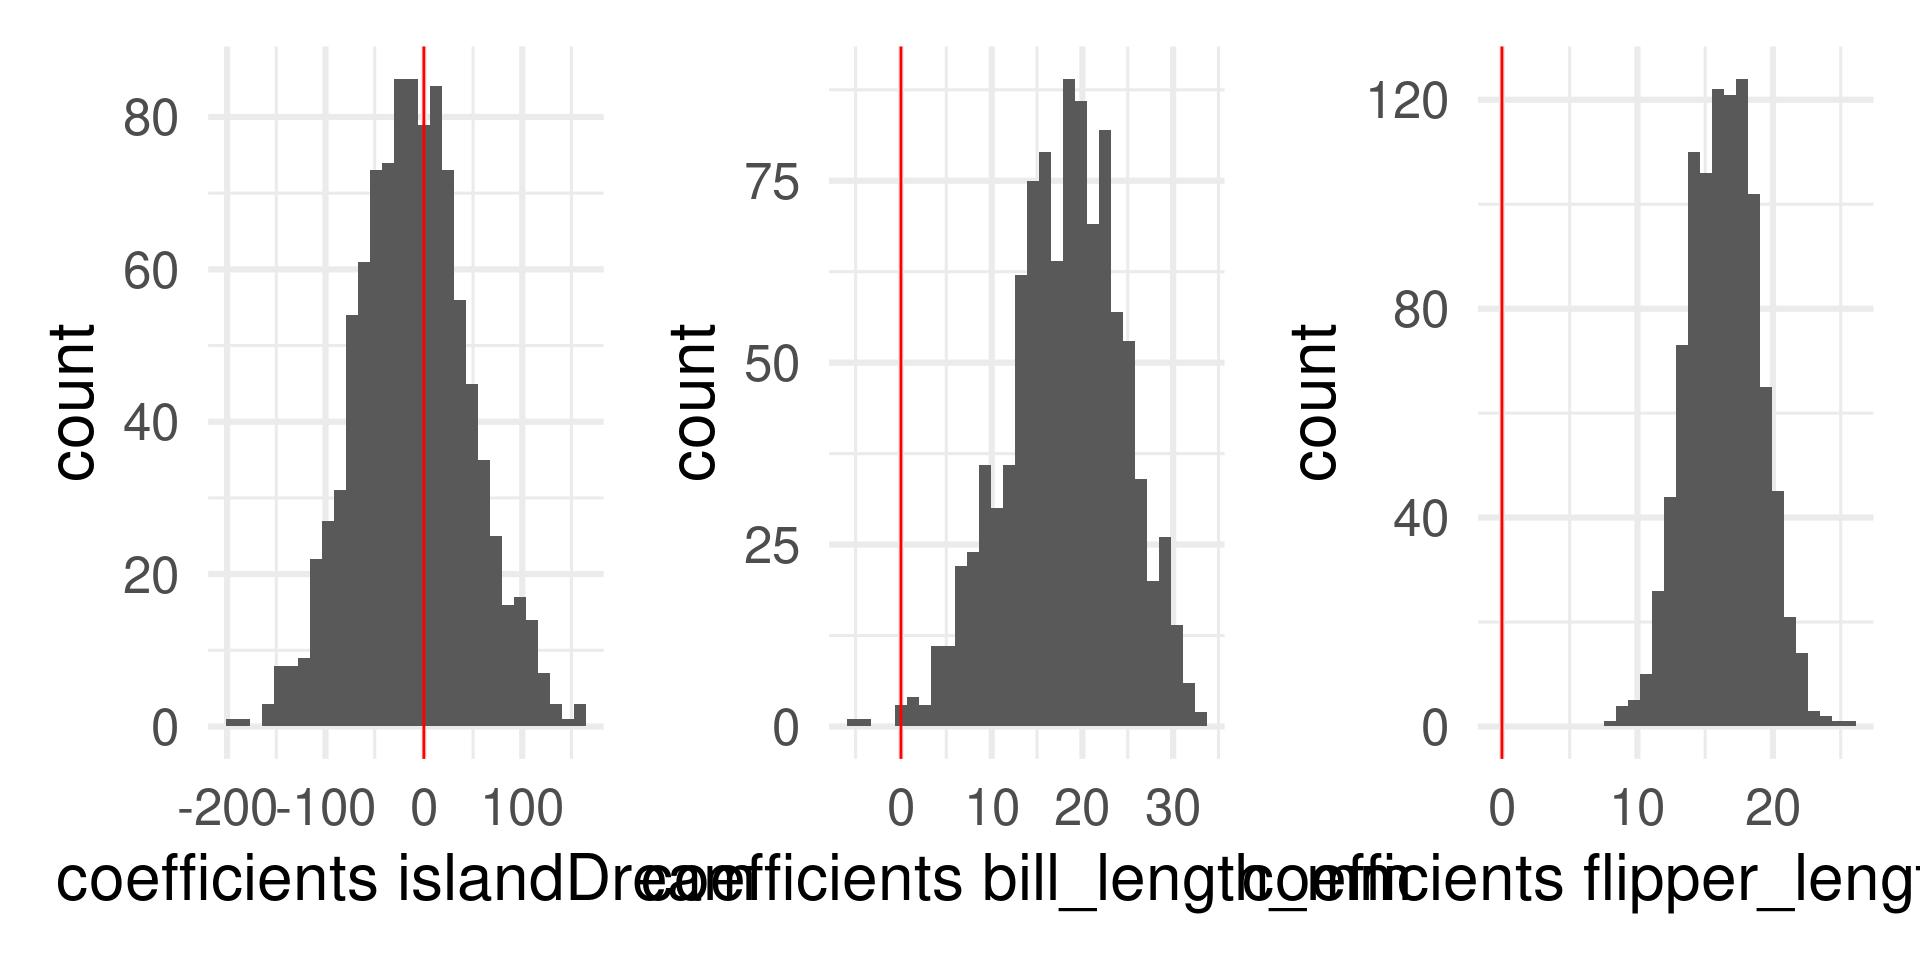
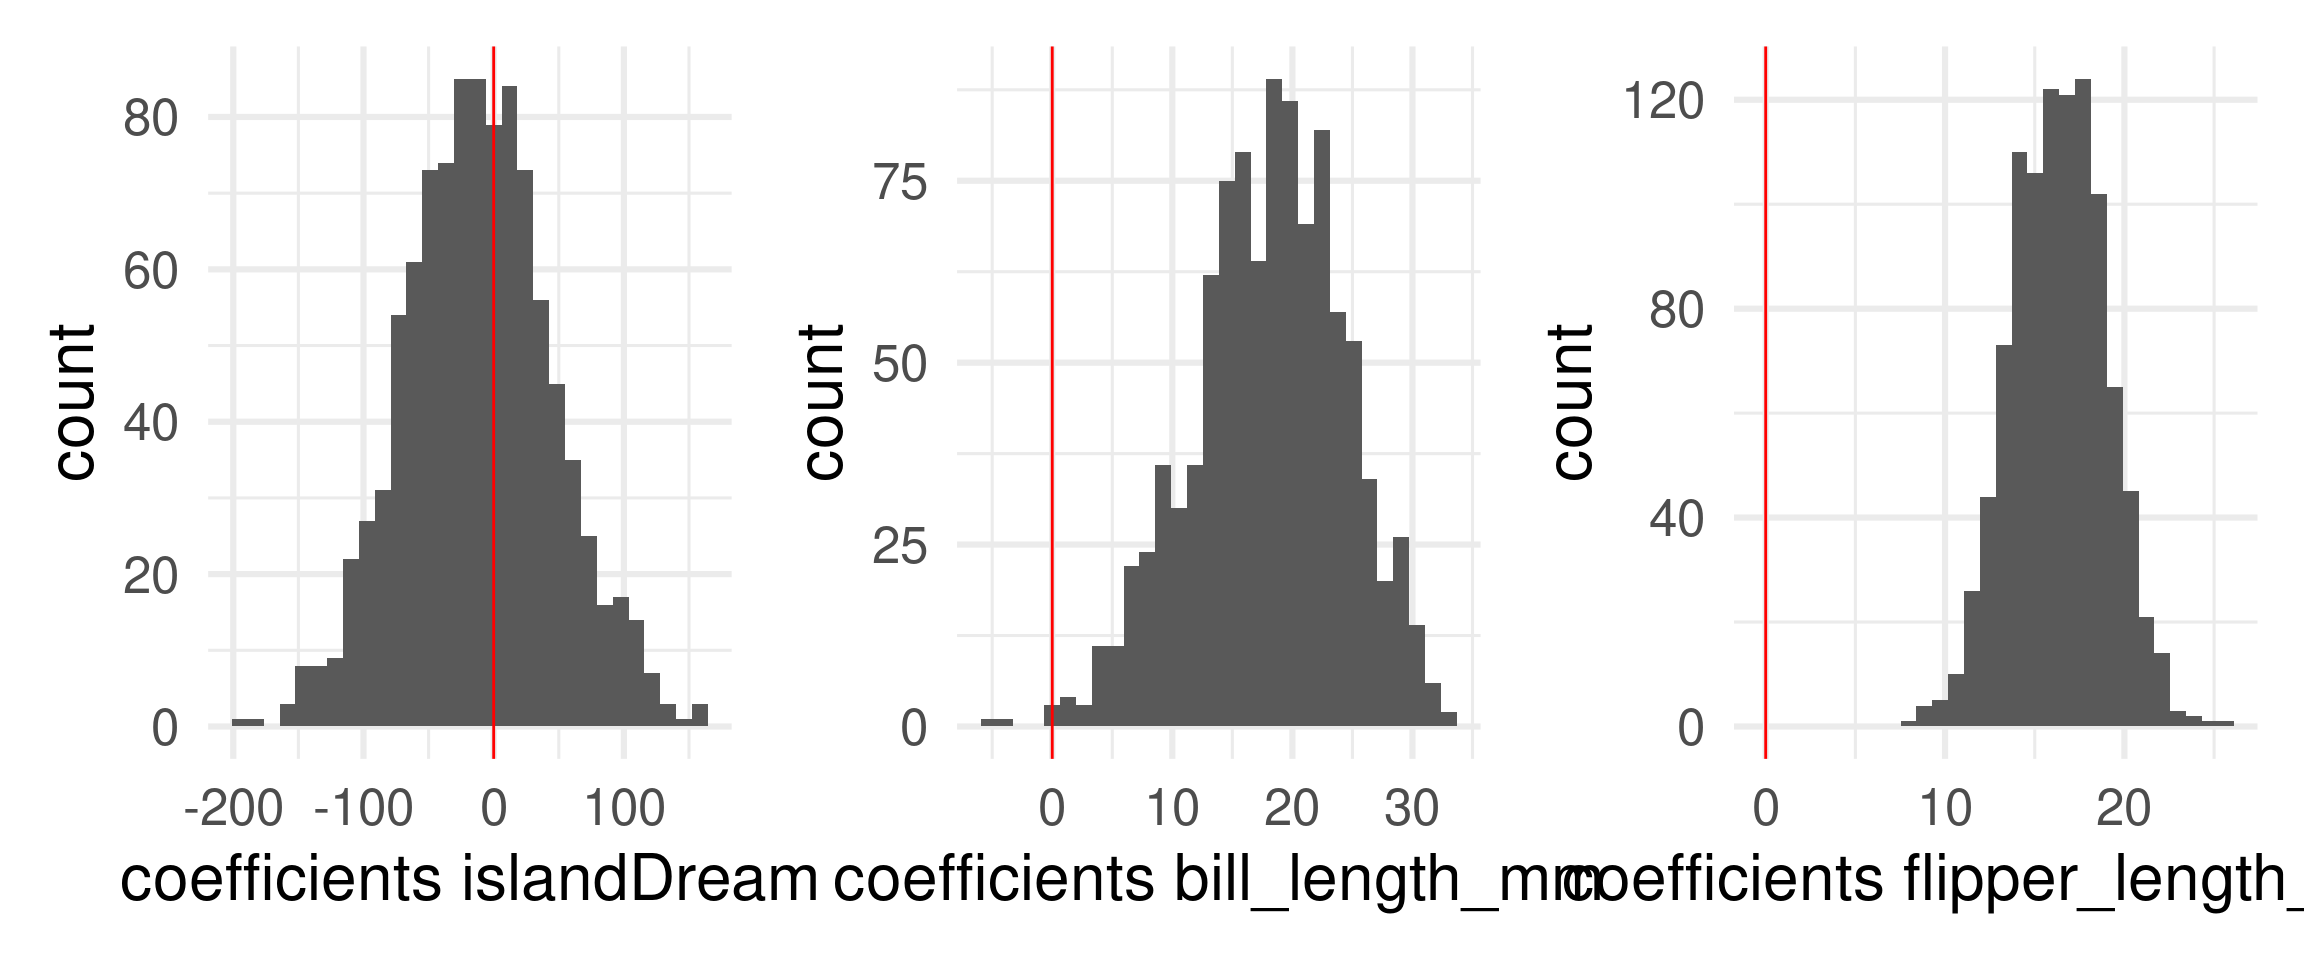
Built site for gh-pages

diff --git a/W11.html b/W11.html
@@ -888,7 +888,7 @@ The true value of the statistic is expected to lie with the CI with certain prob
 </section>
 <section id="some-coefficient-distributions" class="slide level2 smaller">
 <h2>Some coefficient distributions</h2>
-<div class="cell" data-hash="W11_cache/revealjs/unnamed-chunk-23_9587e404a28ce822ed2a15b2b894269b">
+<div class="cell" data-hash="W11_cache/revealjs/unnamed-chunk-23_c3475ea81506b5fbc2ff63b79f694255">
 <div class="sourceCode cell-code" id="cb47"><pre class="sourceCode numberSource r number-lines code-with-copy"><code class="sourceCode r"><span id="cb47-1"><a href="#cb47-1"></a><span class="fu">library</span>(patchwork)</span>
 <span id="cb47-2"><a href="#cb47-2"></a>g1 <span class="ot">&lt;-</span> boots_peng <span class="sc">|&gt;</span> <span class="fu">unnest</span>(coefs) <span class="sc">|&gt;</span> <span class="fu">filter</span>(term <span class="sc">==</span> <span class="st">"islandDream"</span>) <span class="sc">|&gt;</span> </span>
 <span id="cb47-3"><a href="#cb47-3"></a>  <span class="fu">ggplot</span>(<span class="fu">aes</span>(<span class="at">x =</span> estimate)) <span class="sc">+</span> <span class="fu">geom_histogram</span>() <span class="sc">+</span> <span class="fu">xlab</span>(<span class="st">"coefficients islandDream"</span>) <span class="sc">+</span></span>
@@ -902,17 +902,17 @@ The true value of the statistic is expected to lie with the CI with certain prob
 <span id="cb47-11"><a href="#cb47-11"></a>g1 <span class="sc">|</span> g2 <span class="sc">|</span> g3</span></code><button title="Copy to Clipboard" class="code-copy-button"><i class="bi"></i></button></pre></div>
 
 </div>
-<img data-src="W11_files/figure-revealjs/unnamed-chunk-23-1.png" width="960" class="r-stretch"><ul>
+<img data-src="W11_files/figure-revealjs/unnamed-chunk-23-1.png" width="1152" class="r-stretch"><ul>
 <li>We can derive <em>bootstrapped p-values</em> from these distributions. No deeper analysis today.</li>
 </ul>
 </section>
-<section id="p-values-from-each-fit" class="slide level2">
+<section id="p-values-from-each-fit" class="slide level2 smaller">
 <h2>p-values from each fit</h2>
 <ul>
 <li>Each bootstrap fit also delivers p-values for each coefficients. These are computed based on theoretical assumptions with the help of t-tests and t-distributions.</li>
 <li>Let us look how these p-values differ in resamples</li>
 </ul>
-<div class="cell" data-hash="W11_cache/revealjs/unnamed-chunk-24_a66c3dfd833e020f1375fa34d4dedd8f">
+<div class="cell" data-hash="W11_cache/revealjs/unnamed-chunk-24_9aa9fe460b49b34f2e7c248dc7502b3e">
 <div class="sourceCode cell-code" id="cb48"><pre class="sourceCode numberSource r number-lines code-with-copy"><code class="sourceCode r"><span id="cb48-1"><a href="#cb48-1"></a>g1 <span class="ot">&lt;-</span> boots_peng <span class="sc">|&gt;</span> <span class="fu">unnest</span>(coefs) <span class="sc">|&gt;</span> <span class="fu">filter</span>(term <span class="sc">==</span> <span class="st">"islandDream"</span>) <span class="sc">|&gt;</span> </span>
 <span id="cb48-2"><a href="#cb48-2"></a>  <span class="fu">ggplot</span>(<span class="fu">aes</span>(<span class="at">x =</span> p.value)) <span class="sc">+</span> <span class="fu">geom_histogram</span>() <span class="sc">+</span> <span class="fu">xlab</span>(<span class="st">"coefficients islandDream"</span>) <span class="sc">+</span> <span class="fu">theme_minimal</span>(<span class="at">base_size =</span> <span class="dv">24</span>)</span>
 <span id="cb48-3"><a href="#cb48-3"></a>g2 <span class="ot">&lt;-</span> boots_peng <span class="sc">|&gt;</span> <span class="fu">unnest</span>(coefs) <span class="sc">|&gt;</span> <span class="fu">filter</span>(term <span class="sc">==</span> <span class="st">"bill_length_mm"</span>) <span class="sc">|&gt;</span> </span>
@@ -922,7 +922,7 @@ The true value of the statistic is expected to lie with the CI with certain prob
 <span id="cb48-7"><a href="#cb48-7"></a>g1 <span class="sc">|</span> g2 <span class="sc">|</span> g3</span></code><button title="Copy to Clipboard" class="code-copy-button"><i class="bi"></i></button></pre></div>
 
 </div>
-<img data-src="W11_files/figure-revealjs/unnamed-chunk-24-1.png" width="960" class="r-stretch"><ul>
+<img data-src="W11_files/figure-revealjs/unnamed-chunk-24-1.png" width="1152" class="r-stretch"><ul>
 <li>Where the <em>bootstrapped p-values</em> are large (showing insignificance) the p-values from the different resamples vary widely! See <code>islandDream</code> with p-values spanning all probabilities almost uniformly.</li>
 </ul>
 </section></section>
